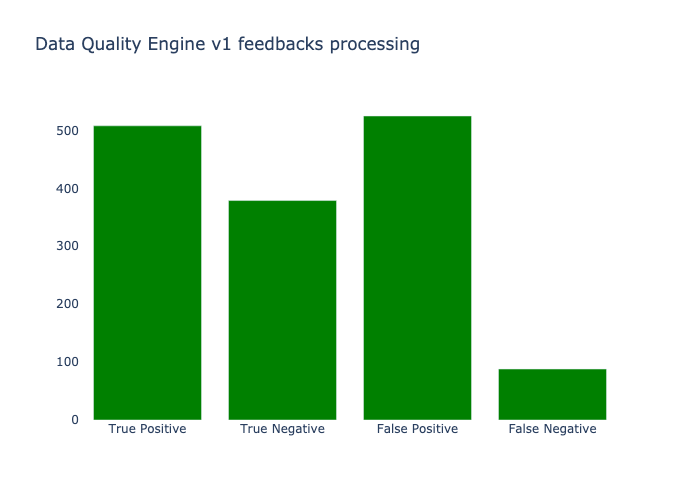
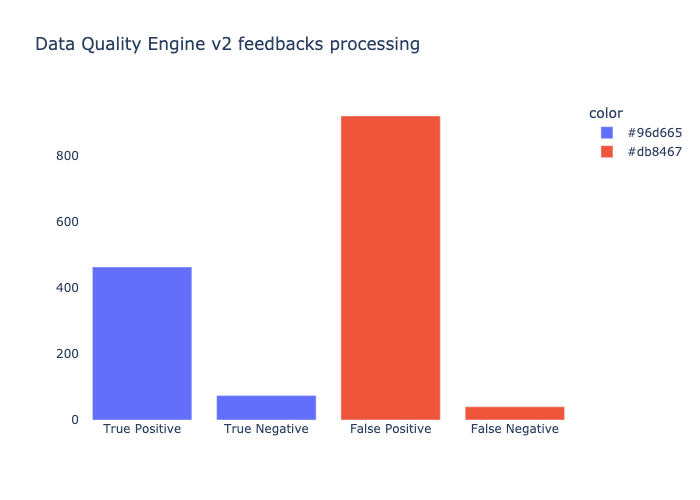
g

diff --git a/vizualization_tools/data_quality_engine_true_false.py b/vizualization_tools/data_quality_engine_true_false.py
@@ -3,10 +3,10 @@ import plotly.io as pio
 
 # Define the data
 data = {
-    'True Positive': 508,
-    'True Negative': 379,
-    'False Positive': 525,
-    'False Negative': 88
+    'True Positive': 464,
+    'True Negative': 74,
+    'False Positive': 922,
+    'False Negative': 40
 }
 
 # Extract labels and values
@@ -25,8 +25,8 @@ color_map = {
 fig = px.bar(
     x=labels,
     y=values,
-    labels={"x": "Data Quality Engine v1 feedbacks processing", "y": "Count"},
-    title="Data Quality Engine v1 feedbacks processing",
+    labels={"x": "Data Quality Engine v2 feedbacks processing", "y": "Count"},
+    title="Data Quality Engine v2 feedbacks processing",
     color=color_map  # Specify color map
 )
 

diff --git a/jobs/updater.py b/jobs/updater.py
@@ -4,7 +4,7 @@ from apscheduler.schedulers.background import BackgroundScheduler
 def start():
     from .jobs import aggregate_and_retrain_model, categorize_uncategorized_images
     scheduler = BackgroundScheduler()
-    scheduler.add_job(aggregate_and_retrain_model, 'interval', minutes=1) #TODO: review
+    scheduler.add_job(aggregate_and_retrain_model, 'interval', hours=10) #TODO: review
     scheduler.add_job(categorize_uncategorized_images, 'interval', seconds=60)
 
     scheduler.start()

diff --git a/vizualization_tools/test.py b/vizualization_tools/test.py
@@ -7,7 +7,7 @@ import plotly.io as pio
 # Sample data
 df = pd.DataFrame(dict(
     group=["True Positive", "True Negative", "False Positive", "False Negative"],
-    value=[508, 379, 525, 88]))
+    value=[464, 74, 922, 40]))
 
 fig = px.bar(df, x='group', y='value', color='group',
              title="Data Quality Engine v1 feedbacks processing",
